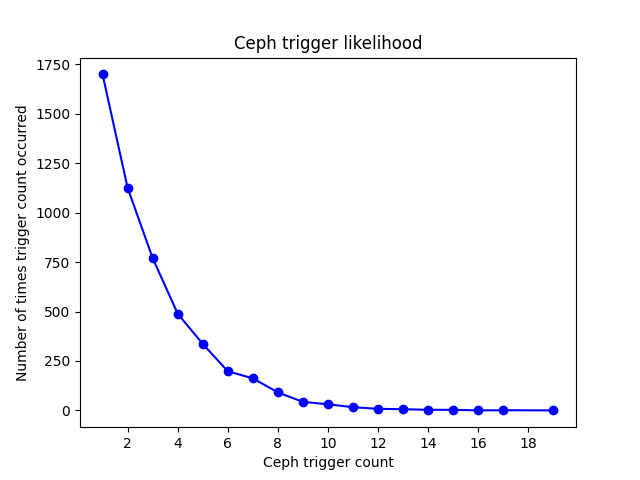
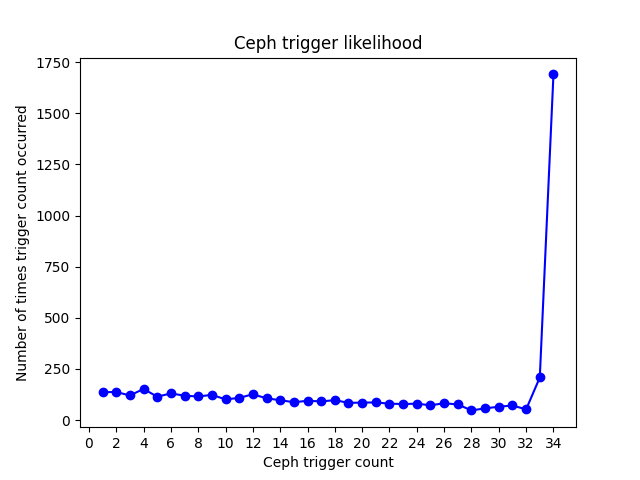
Fix bug: Mothman triggers on milling 1+ non-lands, not 1+ lands

diff --git a/mothman_ceph.py b/mothman_ceph.py
@@ -24,22 +24,23 @@ def generate_library(num_total, num_lands):
     random.shuffle(library)
     return library
 
-def has_land(cards):
+def has_nonland(cards):
     for card in cards:
-        if card.type == CardType.LAND:
+        if card.type is not CardType.LAND:
             return True
     return False
 
 def ceph_trigger(library, trigger_count):
-    print("Milled a land! Mothman triggers, targeting Cephalid. Trigger count: %d" % trigger_count)
+    print("Milled a non-land! Mothman triggers, targeting Cephalid. Trigger count: %d" % trigger_count)
     top_three = []
     if len(library) < 3:
         top_three, library = library, []
     else:
         top_three, library = library[:3], library[3:]
-    if has_land(top_three):
+    if has_nonland(top_three):
         return ceph_trigger(library, trigger_count + 1)
     else:
+        print("We hit three lands. The run stops here. Trigger count: %d" % trigger_count)
         return library, trigger_count
 
 def ceph_trigger_run():
